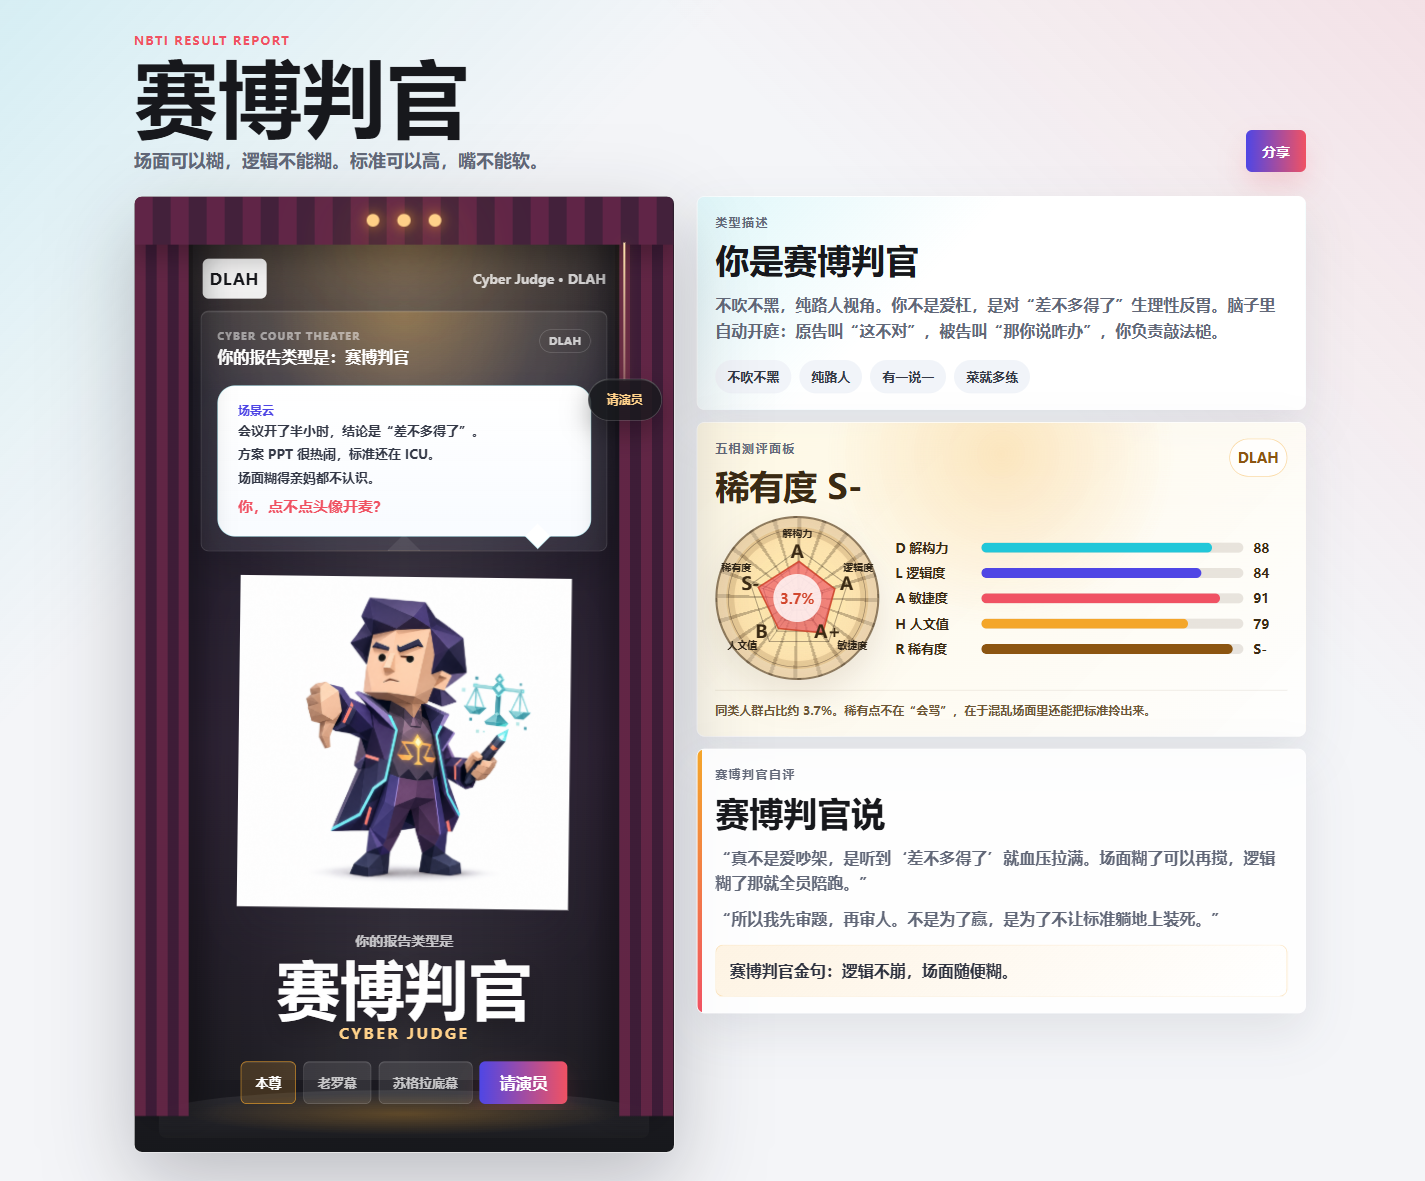
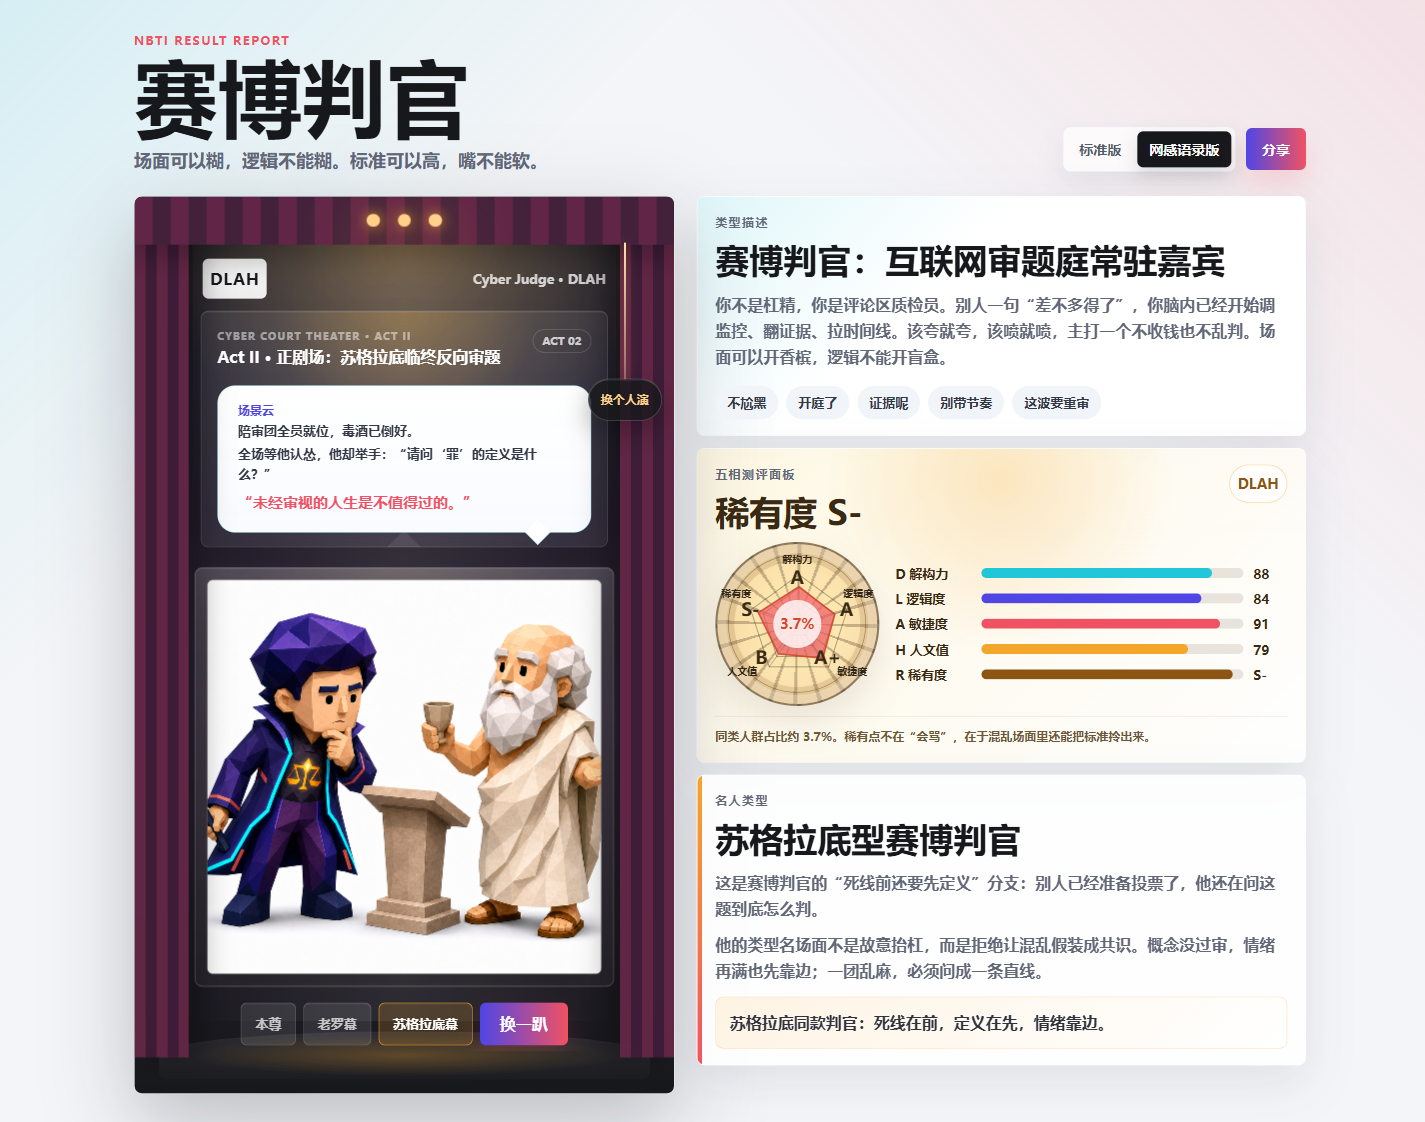
Copy V6 demo version quotes

diff --git a/script.js b/script.js
@@ -19,6 +19,10 @@ const commentaryTitle = document.querySelector("#commentaryTitle");
 const commentaryLines = document.querySelector("#commentaryLines");
 const commentaryQuote = document.querySelector("#commentaryQuote");
 const copyResultButton = document.querySelector("#copyResultButton");
+const demoVersionButtons = document.querySelectorAll(".demo-version-button");
+const typeIntroTitle = document.querySelector("#typeIntroTitle");
+const typeIntroText = document.querySelector("#typeIntroText");
+const typeIntroPills = document.querySelector("#typeIntroPills");
 
 const extraVerdicts = [
   "我先锐评",
@@ -27,6 +31,27 @@ const extraVerdicts = [
   "建议重开",
   "此处扣分",
 ];
+
+const demoVersions = {
+  standard: {
+    title: "标准版",
+    typeIntro: {
+      title: "你是赛博判官",
+      text:
+        "不吹不黑，纯路人视角。你不是爱杠，是对“差不多得了”生理性反胃。脑子里自动开庭：原告叫“这不对”，被告叫“那你说咋办”，你负责敲法槌。",
+      pills: ["不吹不黑", "纯路人", "有一说一", "菜就多练"],
+    },
+  },
+  meme: {
+    title: "网感语录版",
+    typeIntro: {
+      title: "赛博判官：互联网审题庭常驻嘉宾",
+      text:
+        "你不是杠精，你是评论区质检员。别人一句“差不多得了”，你脑内已经开始调监控、翻证据、拉时间线。该夸就夸，该喷就喷，主打一个不收钱也不乱判。场面可以开香槟，逻辑不能开盲盒。",
+      pills: ["不尬黑", "开庭了", "证据呢", "别带节奏", "这波要重审"],
+    },
+  },
+};
 
 const typeScene = {
   title: "你的报告类型是：赛博判官",
@@ -63,6 +88,9 @@ const guestScenes = [
       "前后两套嘴，撞了个稀碎。",
     ],
     question: "这算打脸现场，还是版本升级补丁？",
+    quotes: {
+      meme: "“我不是为了输赢，我就是认真。”",
+    },
     tags: ["“脸先放这，不赖账。”", "“系统升级中，请稍后。”", "“活儿不等人，干就完了。”"],
     photoLabel: "罗永浩名场面",
     name: "罗永浩",
@@ -90,6 +118,9 @@ const guestScenes = [
       "全场等他认怂，他却举手：“请问‘罪’的定义是什么？”",
     ],
     question: "死线都到家门口了，你还要先抠字眼？",
+    quotes: {
+      meme: "“未经审视的人生是不值得过的。”",
+    },
     tags: ["“先问定义，别急着判。”", "“概念不过审，讨论不生效。”", "“追到答案服气为止。”"],
     photoLabel: "苏格拉底名场面",
     name: "苏格拉底",
@@ -110,6 +141,7 @@ const guestScenes = [
 ];
 
 let verdictIndex = 0;
+let activeDemoVersion = "standard";
 let guestIndex = -1;
 let isGuestMode = false;
 let isTurning = false;
@@ -188,6 +220,29 @@ function runStageTimeline() {
     );
 }
 
+function getSceneQuestion(scene) {
+  return scene.quotes?.[activeDemoVersion] || scene.question;
+}
+
+function renderTypeIntro() {
+  const intro = demoVersions[activeDemoVersion].typeIntro;
+  const introPanel = typeIntroText.closest(".result-intro");
+
+  typeIntroTitle.textContent = intro.title;
+  typeIntroText.textContent = intro.text;
+  typeIntroPills.innerHTML = intro.pills.map((pill) => `<span>${pill}</span>`).join("");
+
+  introPanel.classList.remove("is-copy-switching");
+  void introPanel.offsetWidth;
+  introPanel.classList.add("is-copy-switching");
+}
+
+function updateDemoButtons() {
+  demoVersionButtons.forEach((button) => {
+    button.classList.toggle("active", button.dataset.demoVersion === activeDemoVersion);
+  });
+}
+
 function updateStageCopy(scene) {
   if (stageEyebrow) {
     stageEyebrow.textContent = scene.eyebrow;
@@ -199,7 +254,7 @@ function updateStageCopy(scene) {
   }
   sceneLines.innerHTML = [
     ...scene.lines.map((line) => `<p>${line}</p>`),
-    `<p class="scene-question">${scene.question}</p>`,
+    `<p class="scene-question">${getSceneQuestion(scene)}</p>`,
   ].join("");
   commentaryKicker.textContent = scene.commentary.kicker;
   commentaryTitle.textContent = scene.commentary.title;
@@ -267,6 +322,24 @@ function pullTheaterCord() {
   }, 820);
 }
 
+demoVersionButtons.forEach((button) => {
+  button.addEventListener("click", () => {
+    const nextVersion = button.dataset.demoVersion;
+    if (!demoVersions[nextVersion] || nextVersion === activeDemoVersion) return;
+
+    activeDemoVersion = nextVersion;
+    updateDemoButtons();
+    renderTypeIntro();
+
+    if (isGuestMode) {
+      renderGuestScene(guestIndex);
+      return;
+    }
+
+    renderTypeScene();
+  });
+});
+
 sceneButtons.forEach((button) => {
   button.addEventListener("click", () => {
     if (button.dataset.scene === "type") {
@@ -317,4 +390,6 @@ copyResultButton.addEventListener("click", () => {
   copyText("测完 NBTI：赛博判官。不吹不黑，纯路人，有一说一。逻辑不崩，场面随便糊。", copyResultButton);
 });
 
+updateDemoButtons();
+renderTypeIntro();
 renderTypeScene();

diff --git a/styles.css b/styles.css
@@ -93,12 +93,14 @@ h1 {
 .report-actions {
   display: flex;
   align-items: center;
+  justify-content: flex-end;
   gap: 10px;
   flex-wrap: wrap;
 }
 
 .primary-action,
-.secondary-action {
+.secondary-action,
+.demo-version-button {
   border-radius: 6px;
   cursor: pointer;
   padding: 12px 16px;
@@ -117,6 +119,29 @@ h1 {
   border: 1px solid var(--line);
   background: rgba(255, 255, 255, 0.82);
   color: var(--ink);
+}
+
+.demo-version-switcher {
+  display: inline-flex;
+  gap: 4px;
+  padding: 4px;
+  border: 1px solid rgba(231, 233, 239, 0.82);
+  border-radius: 8px;
+  background: rgba(255, 255, 255, 0.72);
+  box-shadow: 0 12px 26px rgba(42, 48, 66, 0.08);
+}
+
+.demo-version-button {
+  border: 0;
+  background: transparent;
+  color: #555d6d;
+  padding: 9px 12px;
+}
+
+.demo-version-button.active {
+  background: #17181c;
+  color: #fff;
+  box-shadow: 0 8px 18px rgba(23, 24, 28, 0.14);
 }
 
 .card-theater-shell,
@@ -1053,6 +1078,20 @@ h1 {
     #fff;
 }
 
+.result-intro.is-copy-switching h2,
+.result-intro.is-copy-switching > p,
+.result-intro.is-copy-switching .result-pills span {
+  animation: copySwitchIn 0.36s ease both;
+}
+
+.result-intro.is-copy-switching > p {
+  animation-delay: 0.04s;
+}
+
+.result-intro.is-copy-switching .result-pills span {
+  animation-delay: 0.1s;
+}
+
 .result-pills {
   display: flex;
   flex-wrap: wrap;
@@ -1620,6 +1659,17 @@ h1 {
   }
 }
 
+@keyframes copySwitchIn {
+  from {
+    opacity: 0;
+    transform: translateY(8px);
+  }
+  to {
+    opacity: 1;
+    transform: translateY(0);
+  }
+}
+
 @media (max-width: 860px) {
   .share-stage,
   .breakdown-band {
@@ -1633,6 +1683,15 @@ h1 {
 
   .report-actions {
     width: 100%;
+    justify-content: flex-start;
+  }
+
+  .demo-version-switcher {
+    width: 100%;
+  }
+
+  .demo-version-button {
+    flex: 1;
   }
 
   .content-grid,

diff --git a/index.html b/index.html
@@ -8,7 +8,7 @@
       name="description"
       content="“差不多得了”过敏人群集合。逻辑不能乱，标准不能软。"
     />
-    <link rel="stylesheet" href="./styles.css?v=5" />
+    <link rel="stylesheet" href="./styles.css?v=6" />
   </head>
   <body>
     <main class="app-shell">
@@ -20,6 +20,14 @@
             <p class="page-subtitle">场面可以糊，逻辑不能糊。标准可以高，嘴不能软。</p>
           </div>
           <div class="report-actions">
+            <div class="demo-version-switcher" aria-label="切换报告展示版本">
+              <button class="demo-version-button active" data-demo-version="standard" type="button">
+                标准版
+              </button>
+              <button class="demo-version-button" data-demo-version="meme" type="button">
+                网感语录版
+              </button>
+            </div>
             <button class="primary-action" id="copyResultButton" type="button">分享</button>
           </div>
         </div>
@@ -154,11 +162,11 @@
           <aside class="report-panel" aria-label="赛博判官完整报告">
             <section class="report-module result-intro">
               <p class="section-label">类型描述</p>
-              <h2>你是赛博判官</h2>
-              <p>
+              <h2 id="typeIntroTitle">你是赛博判官</h2>
+              <p id="typeIntroText" aria-live="polite">
                 不吹不黑，纯路人视角。你不是爱杠，是对“差不多得了”生理性反胃。脑子里自动开庭：原告叫“这不对”，被告叫“那你说咋办”，你负责敲法槌。
               </p>
-              <div class="result-pills">
+              <div class="result-pills" id="typeIntroPills">
                 <span>不吹不黑</span>
                 <span>纯路人</span>
                 <span>有一说一</span>
@@ -247,6 +255,6 @@
       </section>
     </main>
 
-    <script src="./script.js?v=5"></script>
+    <script src="./script.js?v=6"></script>
   </body>
 </html>

diff --git a/docs/copy-version-log.md b/docs/copy-version-log.md
@@ -250,3 +250,44 @@ git checkout copy-v4-rarity-radar-panel
 - 圆盘包含五个方向标签和等级：解构力、逻辑度、敏捷度、人文值、稀有度。
 - 数据列表包含 D/L/A/H/R 五项。
 - 截图保存 `screenshots/report-share-page.png`。
+
+## V6 Demo 版本切换与真实语录版
+
+版本代号：`copy-v6-demo-version-quotes`
+
+修改日期：2026-06-14
+
+修改前基线：`85128a7 Copy V5 stand style radar`
+
+修改目标：
+- 增加一个可切换的 demo 展示版本，用于对比不同文案方向和场景云表达方式。
+- 保留当前标准版，同时新增“网感语录版”：类型描述更偏中文互联网语气，更像评论区嘴替和审题庭人设。
+- 名人幕中，场景云底部原本的红色加粗戏剧问句，在“网感语录版”下切换为名人的经典真实语录方向。
+
+修改范围：
+- 顶部操作区新增 `标准版 / 网感语录版` 切换控件。
+- 右侧 `类型描述` 支持按版本切换标题、正文和标签。
+- 罗永浩幕在网感语录版中使用 `“我不是为了输赢，我就是认真。”` 作为场景云红色强调句。
+- 苏格拉底幕在网感语录版中使用 `“未经审视的人生是不值得过的。”` 作为场景云红色强调句。
+- 切换版本时同步刷新当前舞台和右侧描述，并保留原有请演员、拉绳和名人切换逻辑。
+
+保留原则：
+- 标准版仍是默认开屏版本，避免直接覆盖当前报告页方向。
+- 新版本只影响文案和场景云强调句，不改动五相面板、舞台结构和名人图片资产。
+- 版本切换作为 demo 观察工具，为后续扩展更多文案/板块组合预留入口。
+
+回退方式：
+```bash
+git checkout copy-v6-demo-version-quotes
+```
+
+如需回到本版之前，回退到 V5：
+```bash
+git checkout copy-v5-stand-style-radar
+```
+
+验证方式：
+- 顶部出现 `标准版` 与 `网感语录版` 两个切换按钮。
+- 切到 `网感语录版` 后，右侧类型描述变为更网络化的表达。
+- 在罗永浩/苏格拉底幕中切换版本，场景云底部红色强调句同步切换为经典语录。
+- 截图保存 `screenshots/report-share-page.png`。